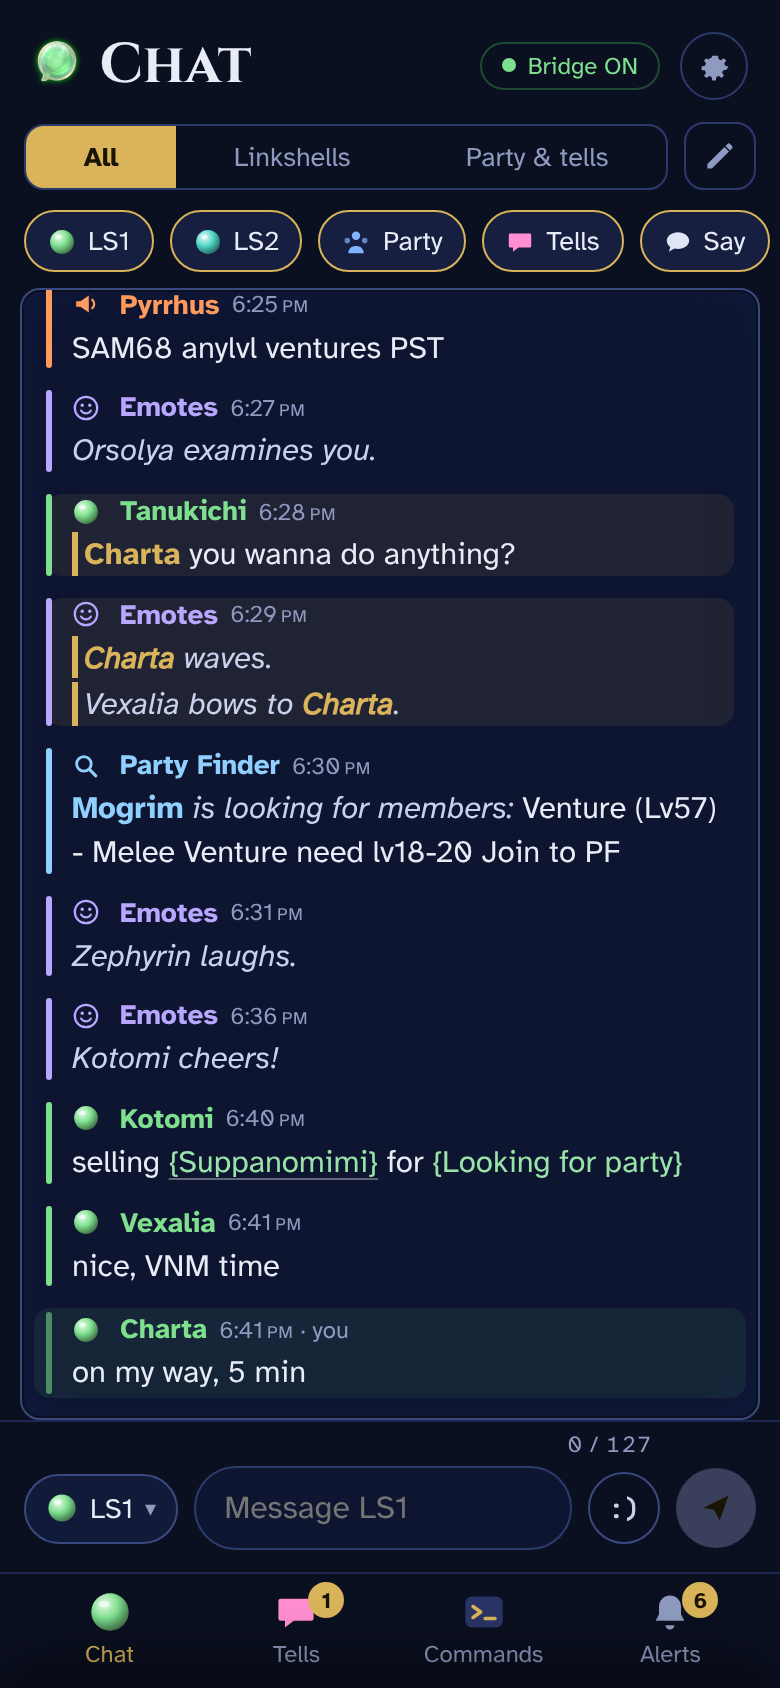
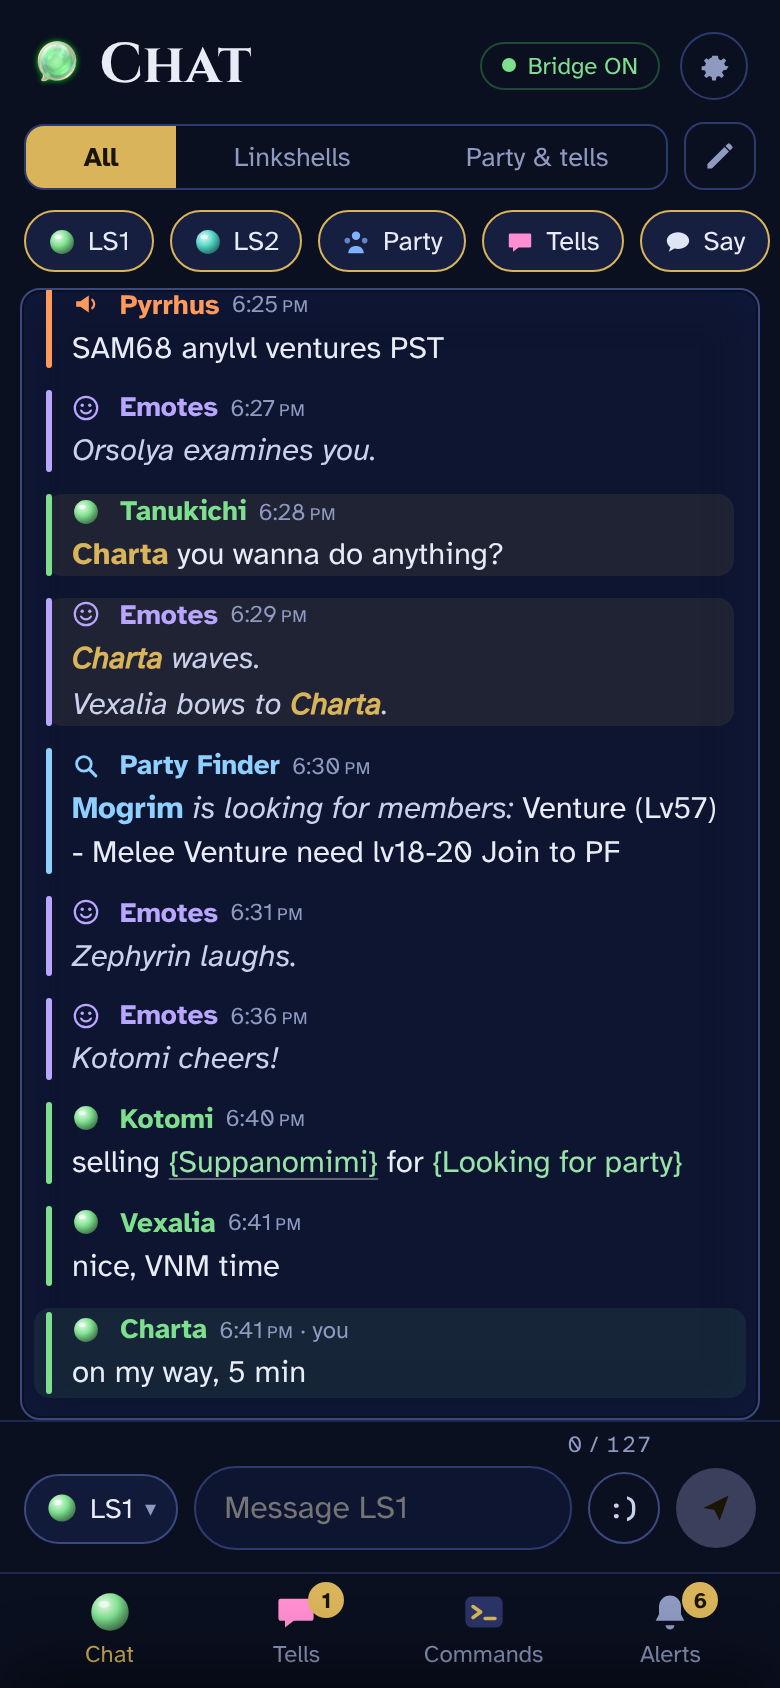
Chat: line bar always matches the channel color; no stray colon on Party Finder in compact
Claude-Session: https://claude.ai/code/session_01PdNqd8TqYktQissLKSxrwy

Changed region(s): [[0.0923, 0.3697, 0.5231, 0.4313], [0.0923, 0.3081, 0.6462, 0.3389], [0.0615, 0.7701, 0.0923, 0.8318]]

diff --git a/bridge/index.html b/bridge/index.html
@@ -49,7 +49,6 @@ input{font:inherit}
 .run.out,.cl.out{background:color-mix(in srgb,var(--c) 8%,transparent);border-radius:8px}
 .run.out{margin:0 -6px;padding:2px 6px}
 /* mentions */
-.mention .ln{text-decoration:none;box-shadow:inset 3px 0 0 var(--gold);padding-left:6px}
 .mention{background:color-mix(in srgb,var(--gold) 9%,transparent);border-radius:8px}
 mark.mw{background:none;color:var(--gold);font-weight:700}
 /* auto-translate phrases (not links) */
@@ -103,8 +102,6 @@ body.compact .pane .inner{gap:5px}
 .div:before,.div:after{content:"";flex:1;height:1px;background:var(--line)}
 .run{display:flex;gap:10px}
 .rail{flex:none;width:3px;border-radius:2px;background:var(--c)}
-.run.out .rail{opacity:.55}
-.run.call .rail{background:var(--vent)!important;opacity:1}
 .rbody{flex:1;min-width:0;display:flex;flex-direction:column;gap:2px}
 .rhead{display:flex;align-items:center;gap:6px;font-size:14px;flex-wrap:wrap}
 .rhead b{color:var(--c)}
@@ -142,7 +139,6 @@ a.url{color:#7fb2ff;background:#18254d;border-radius:6px;padding:0 6px;text-deco
 .t,.vt{white-space:nowrap}
 .cl .ln{flex:1}
 .cl .ln b{color:var(--c)}
-.cl.out .rail{opacity:.55}
 .cl svg.i{vertical-align:-1px;margin-right:5px}
 /* thread */
 .run.mine{justify-content:flex-end}
@@ -938,7 +934,7 @@ function compactPrefix(m) {
     case "party": return "(" + who + ")";
     case "unity": return "{" + who + "}";
     case "yell": return who + (m.zone ? "[" + esc(m.zone) + "]" : "") + ":";
-    case "emote": return "";
+    case "emote": case "finder": return "";
     default: return who + ":";
   }
 }

diff --git a/CHANGELOG.md b/CHANGELOG.md
@@ -40,6 +40,8 @@ Two checks are stricter:
 Chat
 - Scrolling up from the newest line no longer shakes or snaps back, and the view no longer jumps when new lines arrive or you send.
 - Your own lines have a faint tint.
+- The colored bar on the left of each line always matches its channel. Calls, mentions and your own lines no longer change it.
+- Party Finder lines in compact view no longer start with a stray `:`.
 - An emoticon button next to the chat box opens a row of text emoticons (`^^`, `:D`, `;)`, `=)`, `<_<`, `T_T` and more). Tapping one adds it to the box. It doesn't send.
 - Emoji turn into text emoticons as you type (👀 becomes `<_<`, 😀 becomes `:D`). Emoji were already stripped before sending, so this only changes what's left to send.
 - Mentions save as you type. Before, leaving the box with Back on iPhone lost them.
